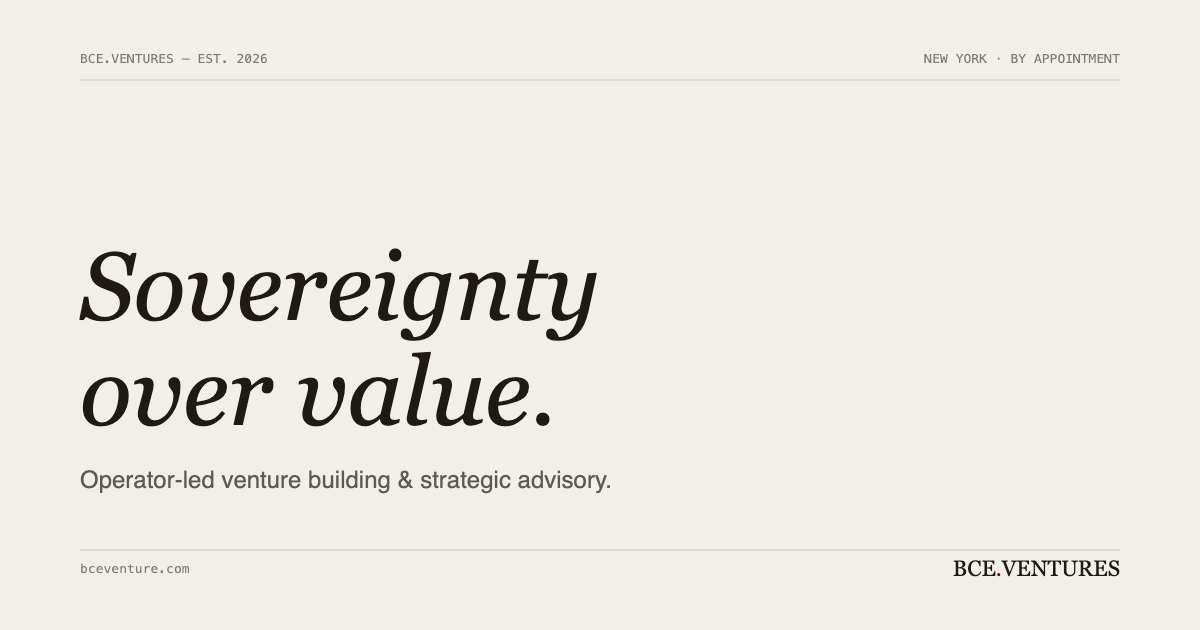
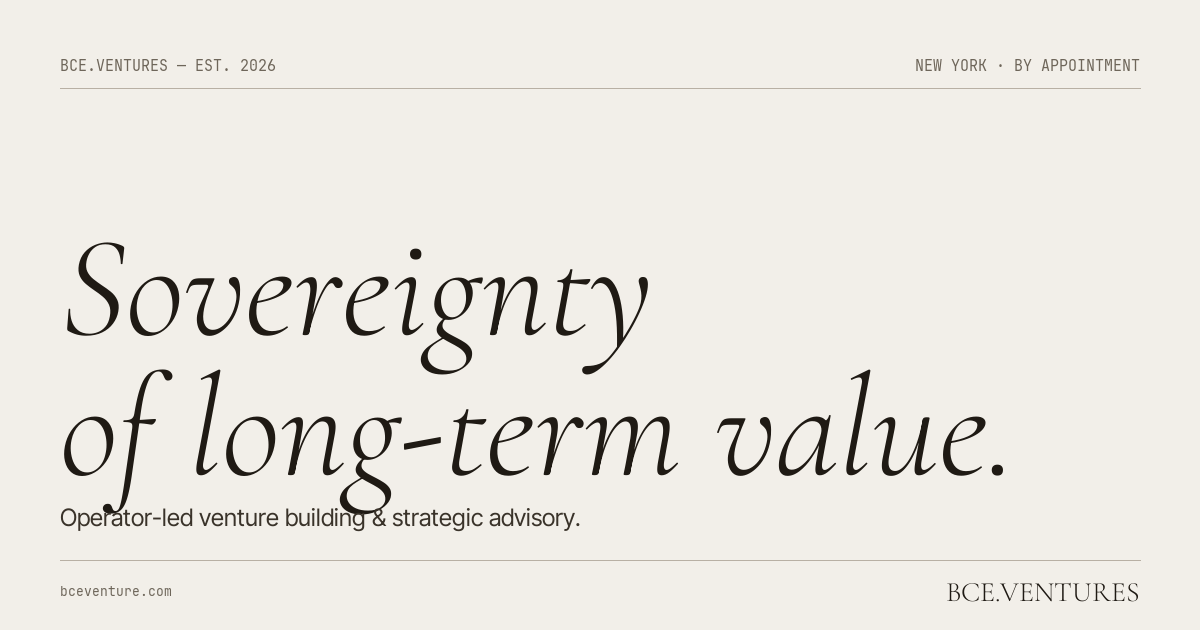
Update language: "Sovereignty of long-term value" across site
Drop the "over value" construction (genitive reads cleaner). Touches:
- og:description, og:image:alt, twitter:description (layout.tsx)
- JSON-LD Organization.description (layout.tsx)
- Insights card title (insights.tsx): "Sovereignty of value formation"
- Contact form option (contact-form.tsx): "Brand & pricing power — sovereignty of long-term value"
- public/og-image.png regenerated with new centerpiece text

Home-page hero is unchanged — still reads "Sovereignty is the objective."
Framework page hero already reads "Sovereignty of long-term value."

diff --git a/app/layout.tsx b/app/layout.tsx
@@ -15,21 +15,21 @@ export const metadata: Metadata = {
     siteName: 'BCE Ventures',
     title: 'BCE.VENTURES — Operator-led venture building & strategic advisory',
     description:
-      'Trust, design, durable systems. An operator-led venture practice for founders, CEOs, and maisons. Sovereignty over value.',
+      'Trust, design, durable systems. Sovereignty of long-term value.',
     url: 'https://bce.ventures/',
     images: [
       {
         url: 'https://bce.ventures/og-image.png',
         width: 1200,
         height: 630,
-        alt: 'BCE.VENTURES — Sovereignty over value',
+        alt: 'BCE.VENTURES — Sovereignty of long-term value',
       },
     ],
   },
   twitter: {
     card: 'summary_large_image',
     title: 'BCE.VENTURES — Operator-led venture practice',
-    description: 'Trust, design, durable systems. Sovereignty over value.',
+    description: 'Trust, design, durable systems. Sovereignty of long-term value.',
     images: ['https://bce.ventures/og-image.png'],
   },
   other: {
@@ -48,7 +48,7 @@ const JSON_LD = {
       url: 'https://bce.ventures/',
       logo: 'https://bce.ventures/og-image.png',
       description:
-        'Operator-led venture building and strategic advisory. Trust, design, durable systems. Sovereignty over value.',
+        'Operator-led venture building and strategic advisory. Trust, design, durable systems. Sovereignty of long-term value.',
       founder: { '@id': 'https://bce.ventures/#founder' },
       address: {
         '@type': 'PostalAddress',

diff --git a/components/contact-form.tsx b/components/contact-form.tsx
@@ -10,7 +10,7 @@ const MOMENTS = [
   { value: 'Scale', label: 'Scale growth at a new altitude' },
   { value: 'Transition', label: 'Transition leadership, structure, or chapter change' },
   { value: 'Inflection', label: 'Market inflection the rules just changed' },
-  { value: 'Brand', label: 'Brand & pricing power sovereignty over value' },
+  { value: 'Brand', label: 'Brand & pricing power — sovereignty of long-term value' },
   { value: 'Other', label: "Not sure yet let's talk" },
 ]
 

diff --git a/components/insights.tsx b/components/insights.tsx
@@ -11,7 +11,7 @@ const ITEMS = [
   },
   {
     date: '04.20.26',
-    title: 'Sovereignty over value formation',
+    title: 'Sovereignty of value formation',
     kicker: 'Primary luxury is flat. Secondary is growing 3× faster. The maisons that define the standard will own the next decade.',
     tag: 'Markets',
     href: 'https://www.linkedin.com/posts/alamrami_primary-luxury-markets-are-slowing-2025-activity-7443052315906895873-2mcM',